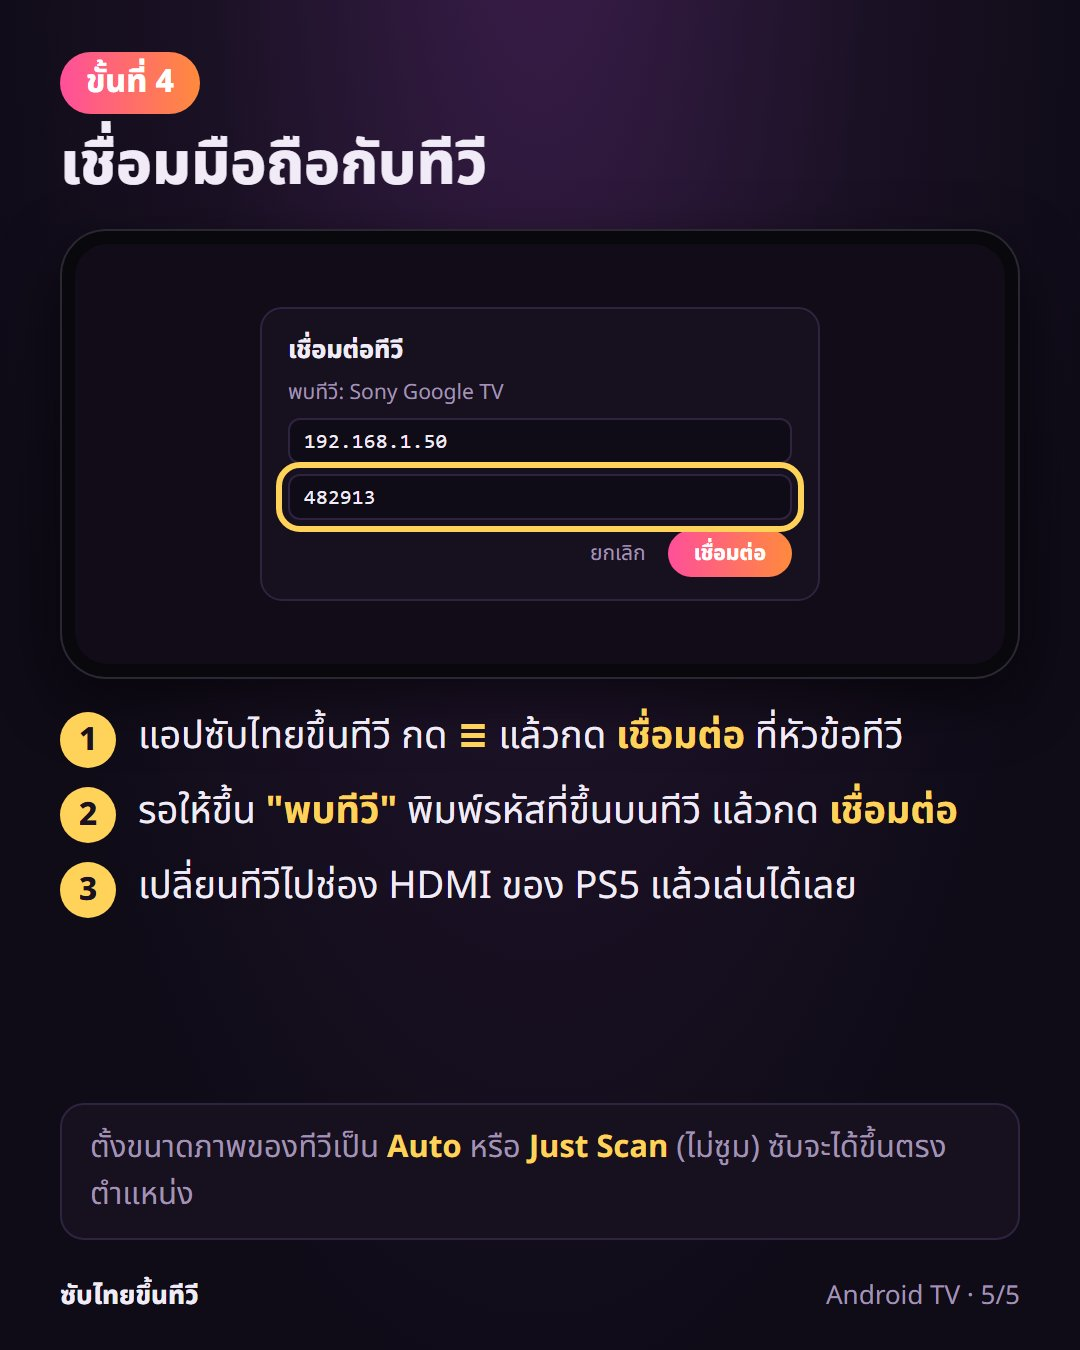
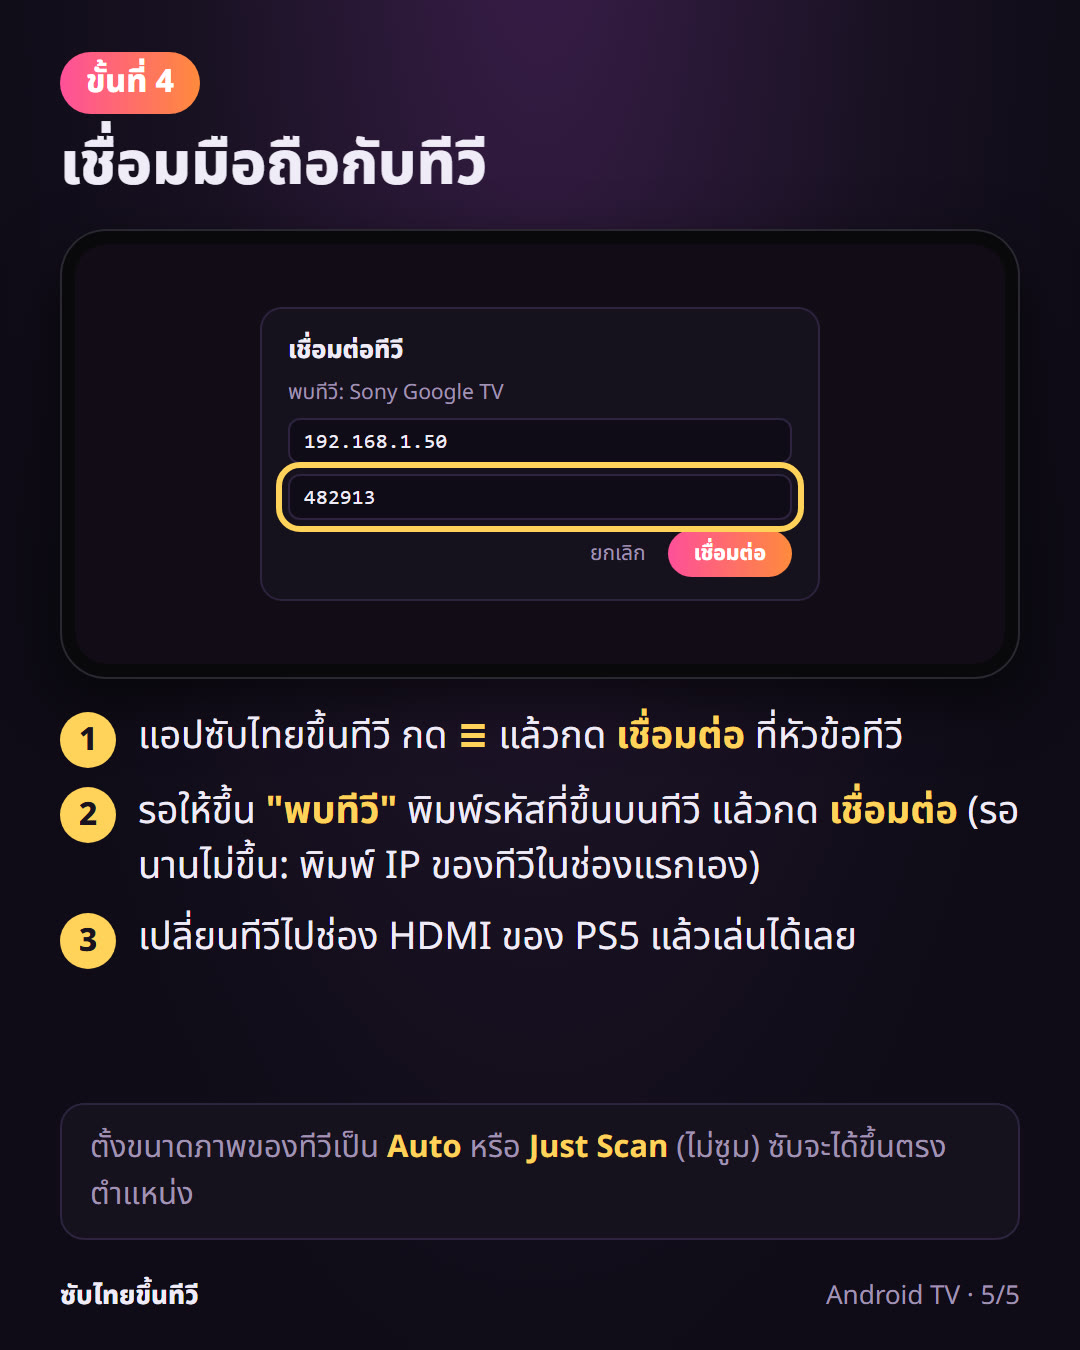
Clearer TV guides: Google TV app tab, unknown-sources and overlay steps, fallbacks when the TV is not found, LG store name and Dev Mode expiry

diff --git a/tv/lg.md b/tv/lg.md
@@ -8,13 +8,13 @@
 **ต้องมี**
 - มือถือ Android ที่ลงแอป **ซับไทยขึ้นทีวี** แล้ว ([โหลดแอปที่นี่](https://github.com/Jericho-Missile/thaisub-tv/releases/latest) · [วิธีลงแบบมีรูป](../phone/install.md))
 - **บัญชีนักพัฒนา LG** (สมัครฟรีที่ [webostv.developer.lge.com](https://webostv.developer.lge.com))
-- ทีวีกับมือถือต่อ **WiFi วงเดียวกัน**
+- ทีวีกับมือถือต่อ **WiFi ตัวเดียวกัน** (เราเตอร์เดียวกัน)
 - PS5 เสียบสาย HDMI เข้าทีวี
 
 **ไฟล์ที่ต้องโหลด**
 1. แอป **webOS Dev Manager**: [หน้าดาวน์โหลด](https://github.com/webosbrew/dev-manager-desktop/releases/latest)
    - มือถือ: เลือกไฟล์ที่ลงท้าย **universal.apk** (ไฟล์ใหญ่ราว 160 MB)
-   - คอม Windows: เลือกไฟล์ที่ลงท้าย **x64_en-US.msi**
+   - คอม Windows: เลือกไฟล์ที่ลงท้าย **x64_en-US.msi** (ถ้าแอปบนมือถือใช้ไม่ได้ ใช้คอมแทน)
    - เป็นแอปฟรีของคนอื่น ช่วยลงแอปเข้าทีวี LG
 2. แอปทีวี **VI Translator สำหรับ LG**: [หน้าดาวน์โหลด](https://github.com/vi-translator/vi-translator-webos-tv/releases/latest) เลือกไฟล์ที่ลงท้าย **.ipk**
 
@@ -30,14 +30,14 @@
 ![ขั้นที่ 1](img/l2.jpg)
 
 ## ขั้นที่ 2: เปิดโหมดนักพัฒนาบนทีวี
-1. ทีวี: เปิด **LG Content Store** ค้นหา **Developer Mode** แล้วติดตั้ง
+1. ทีวี: เปิดแอปสโตร์ของ LG (ชื่อ **LG Content Store** หรือ **Apps**) ค้นหา **Developer Mode** แล้วติดตั้ง
 2. เปิดแอป แล้วล็อกอินด้วยบัญชีจากขั้นที่ 1 จากนั้นเปิด **Dev Mode Status** (ทีวีจะรีสตาร์ท)
-3. เปิดแอป Developer Mode อีกครั้ง เปิด **Key Server** แล้วจด **IP** และ **Passphrase** ที่ขึ้นบนจอไว้
+3. เปิดแอป Developer Mode อีกครั้ง เปิด **Key Server** แล้วจด **IP** และ **Passphrase** ที่ขึ้นบนจอไว้ (Passphrase ตัวพิมพ์ใหญ่-เล็กต้องตรง · ไม่เห็น IP: ตั้งค่า → เครือข่าย → Wi-Fi → ตั้งค่าขั้นสูง)
 
 ![ขั้นที่ 2](img/l3.jpg)
 
 ## ขั้นที่ 3: โหลด 2 ไฟล์ลงมือถือ
-- โหลดไฟล์ที่ลงท้าย **universal.apk** แล้วติดตั้ง
+- โหลดไฟล์ที่ลงท้าย **universal.apk** แล้วติดตั้ง (ไฟล์ใหญ่ ใช้ WiFi โหลด · วิธีลงไฟล์ .apk ทำแบบเดียวกับ[คู่มือลงแอปในมือถือ](../phone/install.md))
 - โหลดไฟล์ **.ipk** เก็บไว้ในมือถือ
 
 ![ขั้นที่ 3](img/l4.jpg)
@@ -50,7 +50,7 @@
 
 ## ขั้นที่ 5: เชื่อมมือถือกับทีวี LG
 1. ทีวี: เปิดแอป **VI Translator** จะมีรหัส 6 หลักขึ้น
-2. มือถือ: กด **≡** แล้วกด **เชื่อมต่อ** ใส่รหัส แล้วกด **เชื่อมต่อ**
+2. มือถือ: กด **≡** แล้วกด **เชื่อมต่อ** ใส่รหัส แล้วกด **เชื่อมต่อ** (ไม่ขึ้น "พบทีวี": พิมพ์ IP ของทีวี เลขเดียวกับขั้นที่ 2 ในช่องแรกเอง)
 3. บนทีวีกด **Play on…** แล้วเลือกช่อง HDMI ที่ต่อ PS5
 
 ตอนเล่นเกมให้เล่นผ่านแอปนี้ อย่ากดเปลี่ยนช่องด้วยปุ่ม Source ครั้งต่อไปแอปจะเปิดเข้าเกมให้เลย
@@ -58,9 +58,9 @@
 ![ขั้นที่ 5](img/l6.jpg)
 
 ## สำคัญ: ตั้งค่าเพิ่มเพื่อให้ใช้ได้ยาว ๆ
-1. **ต่อเวลาโหมดนักพัฒนา:** เปิดแอป Developer Mode บนทีวีเป็นระยะ แล้วกด **Extend** ก่อนเวลาหมด ไม่อย่างนั้นทีวีจะลบแอปออกเอง ดูเวลาที่เหลือได้ในแอป และ webOS Dev Manager ก็กดต่อเวลาให้ได้
+1. **ต่อเวลาโหมดนักพัฒนา:** เปิดแอป Developer Mode บนทีวีเป็นระยะ แล้วกด **Extend** ก่อนเวลาหมด ถ้าหมดเวลา ทีวีจะลบแอปออก ต้องเปิดโหมดนักพัฒนาและลงแอปใหม่ตั้งแต่ขั้นที่ 2 · ดูเวลาที่เหลือได้ในแอป Developer Mode
 2. **ปิด SIMPLINK (HDMI-CEC)** ในตั้งค่าทีวี และปิด **ลิงก์อุปกรณ์ HDMI** (HDMI Device Link) บน PS5 ทีวีจะได้ไม่สลับช่องเอง
-3. ตั้งขนาดภาพเป็น **Original** หรือ **Just Scan** (ไม่ซูม) ซับจะได้ขึ้นตรงตำแหน่ง
+3. ตั้งขนาดภาพเป็น **Original** หรือ **Just Scan** (ไม่ซูม ตั้งที่ ตั้งค่า → ภาพ → อัตราส่วนภาพ) ซับจะได้ขึ้นตรงตำแหน่ง
 4. ทุกครั้งที่เปิดทีวีใหม่ ต้อง**เปิดแอป VI Translator เอง** เพราะ LG ไม่ให้แอปเปิดขึ้นมาเอง
 
 ![สำคัญ](img/l7.jpg)

diff --git a/tv/android-tv.md b/tv/android-tv.md
@@ -1,11 +1,11 @@
 # ติดตั้งบนทีวี Android TV / Google TV
 
-ใช้กับทีวีที่หน้าแรกมี **Google Play** เช่น Sony, TCL, Xiaomi, Hisense (รุ่น Google TV), Sharp และ Philips
+ใช้กับทีวีระบบ **Google TV** หรือ **Android TV** เช่น Sony, TCL, Xiaomi, Hisense (รุ่น Google TV), Sharp และ Philips
 ใช้เวลาประมาณ 5 นาที ไม่ต้องใช้คอม
 
 **ต้องมี**
 - มือถือ Android ที่ลงแอป **ซับไทยขึ้นทีวี** แล้ว ([โหลดแอปที่นี่](https://github.com/Jericho-Missile/thaisub-tv/releases/latest) · [วิธีลงแบบมีรูป](../phone/install.md))
-- ทีวีกับมือถือต่อ **WiFi วงเดียวกัน**
+- ทีวีกับมือถือต่อ **WiFi ตัวเดียวกัน** (เราเตอร์เดียวกัน)
 - PS5 เสียบสาย HDMI เข้าทีวี
 
 ทีวียี่ห้ออื่น: [Samsung](samsung.md) · [LG](lg.md)
@@ -15,20 +15,21 @@
 ![หน้าปก](img/a1.jpg)
 
 ## ขั้นที่ 1: ลงแอป Downloader บนทีวี
-บนทีวี เปิด **Google Play** ค้นหา **Downloader** (ไอคอนสีส้ม) แล้วกด **ติดตั้ง**
+บนทีวี เปิด **Google Play** (ทีวี Google TV: ไปแท็บ **แอป** แล้วค้นหาแอป หรือกดปุ่มไมค์แล้วพูดว่า Downloader) ค้นหา **Downloader** (ไอคอนสีส้ม) แล้วกด **ติดตั้ง**
 
 ![ขั้นที่ 1](img/a2.jpg)
 
 ## ขั้นที่ 2: โหลดแอป VI Translator ด้วยรหัส
 เปิด Downloader แล้วพิมพ์ **3156727** กด **Go** โหลดเสร็จแล้วกด **Install**
-ถ้าทีวีถามว่าจะให้ Downloader ติดตั้งแอปไหม ให้กด **อนุญาต**
+ถ้าขึ้นว่าไม่อนุญาตให้ติดตั้ง กด **การตั้งค่า** เปิดสวิตช์ **Downloader** กดย้อนกลับ แล้วกด **Install** ใหม่
+ถ้าไม่มีสวิตช์ให้เปิด: ตั้งค่า → ระบบ → เกี่ยวกับ → กด **บิลด์ระบบปฏิบัติการ Android TV** 7 ครั้ง แล้วลองใหม่
 
 ถ้าวิธีนี้ไม่ได้ ใช้ไฟล์ APK จาก [หน้าดาวน์โหลดของ VI Translator สำหรับ Android TV](https://github.com/vi-translator/vi-translator-android-tv/releases/latest) แทนได้
 
 ![ขั้นที่ 2](img/a3.jpg)
 
 ## ขั้นที่ 3: เปิดแอป VI Translator บนทีวี
-เปิดแอป **VI Translator** บนทีวี จะมี **รหัส 6 หลัก** ขึ้น ถ้าแอปขอสิทธิ์ **"แสดงทับแอปอื่น"** ให้กดอนุญาต
+เปิดแอป **VI Translator** บนทีวี จะมี **รหัส 6 หลัก** ขึ้น ถ้าแอปขอสิทธิ์ **"แสดงทับแอปอื่น"** ทีวีจะเด้งไปหน้าตั้งค่า เลือก **VI Translator** เปิดสวิตช์ แล้วกดย้อนกลับ · ครั้งหน้าหาแอปได้ในแท็บ **แอป** ของทีวี
 
 ทีวี TCL บางรุ่นไม่มีปุ่มให้อนุญาตสิทธิ์ "แสดงทับแอปอื่น" ต้องใช้คอมเปิดให้ครั้งเดียว ทักถามในกลุ่มได้เลย
 
@@ -36,7 +37,7 @@
 
 ## ขั้นที่ 4: เชื่อมมือถือกับทีวี
 1. ในแอปซับไทยขึ้นทีวี กด **≡** แล้วกด **เชื่อมต่อ** ที่หัวข้อทีวี
-2. รอให้ขึ้นว่า **"พบทีวี"** พิมพ์รหัสที่ขึ้นบนทีวี แล้วกด **เชื่อมต่อ**
+2. รอให้ขึ้นว่า **"พบทีวี"** พิมพ์รหัสที่ขึ้นบนทีวี แล้วกด **เชื่อมต่อ** (รอนานแล้วไม่ขึ้น: พิมพ์เลข IP ของทีวีในช่องแรกเอง ดูได้ในตั้งค่าเครือข่ายของทีวี)
 3. เปลี่ยนทีวีไปช่อง HDMI ของ PS5 แล้วเล่นได้เลย
 
 ตั้งขนาดภาพของทีวีเป็น **Auto** หรือ **Just Scan** (ไม่ซูม) ซับจะได้ขึ้นตรงตำแหน่ง

diff --git a/tv/samsung.md b/tv/samsung.md
@@ -6,9 +6,9 @@
 > **ยังอยู่ช่วงทดลอง:** แอปซับไทยขึ้นทีวีเพิ่งรองรับ Samsung ในรุ่น 1.0.2 และยังไม่มีคนในกลุ่มลองกับทีวีจริงครบทุกขั้น ถ้าติดขั้นไหน โพสต์ถามในกลุ่มพร้อมรูปหน้าจอได้เลย
 
 **ต้องมี**
-- มือถือ Android ที่ลงแอป **ซับไทยขึ้นทีวี รุ่น 1.0.2 ขึ้นไป** ([โหลดแอปที่นี่](https://github.com/Jericho-Missile/thaisub-tv/releases/latest) · [วิธีลงแบบมีรูป](../phone/install.md))
+- มือถือ Android ที่ลงแอป **ซับไทยขึ้นทีวี** รุ่นล่าสุด ([โหลดแอปที่นี่](https://github.com/Jericho-Missile/thaisub-tv/releases/latest) · [วิธีลงแบบมีรูป](../phone/install.md))
 - **บัญชี Samsung** ของตัวเอง ([สมัครฟรี](https://account.samsung.com))
-- ทีวีกับมือถือต่อ **WiFi วงเดียวกัน**
+- ทีวีกับมือถือต่อ **WiFi ตัวเดียวกัน** (เราเตอร์เดียวกัน)
 - PS5 เสียบสาย HDMI เข้าทีวี
 
 **ไฟล์ที่ต้องโหลด**
@@ -22,13 +22,13 @@
 ![หน้าปก](img/s1.jpg)
 
 ## ขั้นที่ 1: โหลด 2 ไฟล์ลงมือถือ
-- โหลดไฟล์ที่ลงท้าย **-android.apk** แล้วกดติดตั้ง
+- โหลดไฟล์ที่ลงท้าย **-android.apk** แล้วกดติดตั้ง (วิธีลงไฟล์ .apk ทำแบบเดียวกับ[ขั้นที่ 2-4 ของคู่มือลงแอปในมือถือ](../phone/install.md))
 - โหลดไฟล์ **.wgt** เก็บไว้ในมือถือ ยังไม่ต้องเปิด
 
 ![ขั้นที่ 1](img/s2.jpg)
 
 ## ขั้นที่ 2: ดูเลข IP ของมือถือ
-มือถือ: **ตั้งค่า → WiFi** แล้วกดชื่อ WiFi ที่ต่ออยู่ จด **ที่อยู่ IP** ไว้ (หน้าตาแบบ 192.168.1.23)
+มือถือ: **ตั้งค่า → WiFi** แล้วกดชื่อ WiFi ที่ต่ออยู่ (มือถือ Samsung: กดรูปเฟือง ⚙ ข้างชื่อ WiFi) จด **ที่อยู่ IP** ไว้ (หน้าตาแบบ 192.168.1.23) · แอป Apps2Samsung ก็บอกเลข IP นี้ให้
 
 ![ขั้นที่ 2](img/s3.jpg)
 
@@ -42,7 +42,7 @@
 ![ขั้นที่ 3](img/s4.jpg)
 
 ## ขั้นที่ 4: ลงแอปทีวีด้วย Apps2Samsung
-1. เปิด **Apps2Samsung** บนมือถือ แล้วเลือกทีวีของเรา
+1. เปิด **Apps2Samsung** บนมือถือ แล้วกดชื่อทีวีของเราที่ขึ้นในแอป (แอปเป็นภาษาอังกฤษ)
 2. ที่หัวข้อ **Your own package** กด **Install a .wgt or .tpk file**
 3. เลือกไฟล์ **vi-translator-tizen-tv-….wgt** ที่โหลดไว้
 
@@ -60,7 +60,7 @@
 ## ขั้นที่ 6: เชื่อมมือถือกับทีวี Samsung
 1. ทีวี: เปิดแอป **VI Translator** (อยู่ในหน้า Apps) จะมีรหัส 6 หลักขึ้น
 2. มือถือ: กด **≡** แล้วกด **เชื่อมต่อ** รอให้ขึ้นว่า **"พบทีวี: Samsung…"** (ใช้เวลาราว 20 วินาที) จากนั้นใส่รหัส แล้วกด **เชื่อมต่อ**
-3. ตอนเล่นเกม: **เปิดแอป VI Translator** แทนการเปลี่ยนไปช่อง HDMI (แอปจะแสดงภาพเกมจาก HDMI เอง) กด **OK** แล้วเลือก **Input** เป็นช่องที่ต่อ PS5
+3. ตอนเล่นเกม: **เปิดแอป VI Translator** แทนการเปลี่ยนไปช่อง HDMI (ภาพเกมจะขึ้นในแอป ไม่ต้องกด Source) กด **OK** แล้วเลือก **Input** เป็นช่องที่ต่อ PS5
 
 ![ขั้นที่ 6](img/s7.jpg)
 
